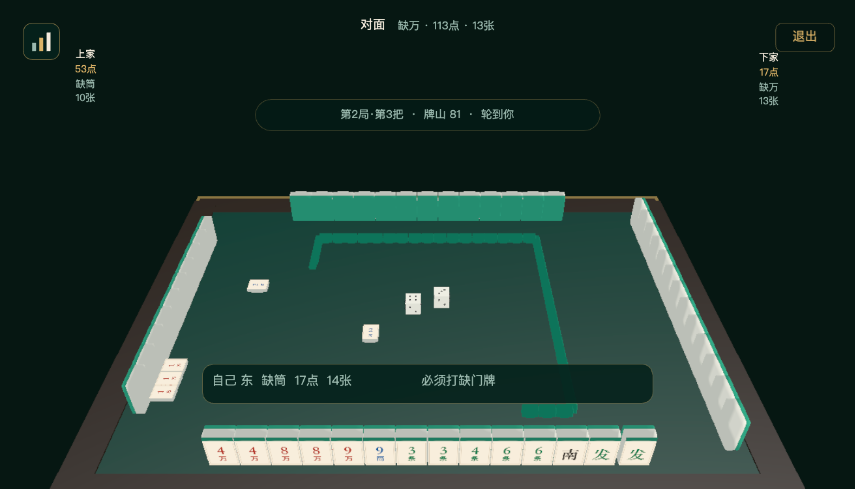
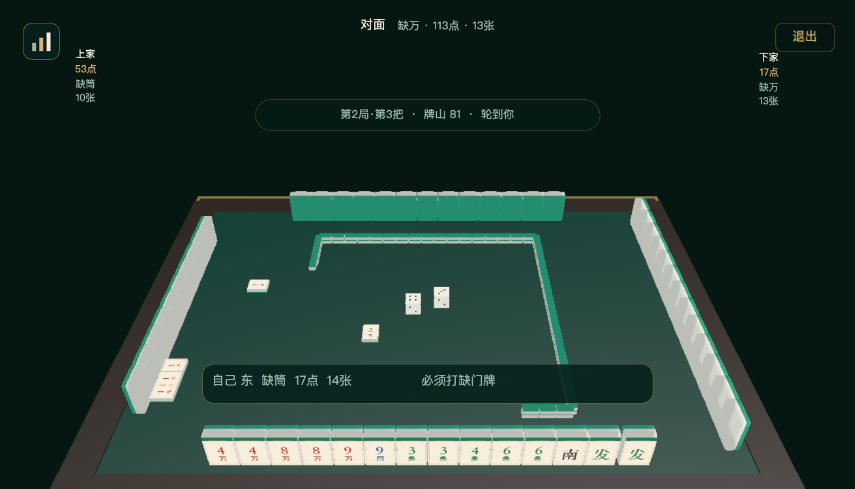
fix(layair): 全桌统一牌模型——背面30%绿 + 牌面70%白
上一轮只把站立牌（手牌）改成了双色，平躺牌和牌墙还是单色，不符合
「所有牌都是同一个模型」的要求。这次全部统一：

- addFlatTile（牌河 / 副露 / 打出的牌）：平躺、牌面朝上——
  底部 30% 厚度绿背贴桌面，上部 70% 象牙白白身，牌面贴图贴白身顶面；
  白身往绿背多咬 0.4 防接缝漏光，圆角从 3.6 收到 1.6
- addWall（牌墙）：每层墩拆成上 30% 绿（牌背朝上）+ 下 70% 白，
  两层叠起来绿白相间；不再整体一块绿，和桌面糊在一起
- 站立牌（手牌）沿用上一轮的两段结构，绿 #4CAF87 + 象牙白

现在手牌 / 牌墙 / 牌河 / 副露是同一个模型在不同朝向上的摆放。
README 更新口径；3D 牌桌截图更新。

Changed region(s): [[0.3649, 0.4601, 0.669, 0.7669], [0.6082, 0.8282, 0.6994, 0.8589]]

diff --git a/layair/src/ui/Table3D.ts b/layair/src/ui/Table3D.ts
@@ -403,15 +403,34 @@ export class Table3D {
     }
   }
 
-  /** 平躺牌：弃牌、副露、最后打出的牌 */
+  /**
+   * 平躺牌：弃牌、副露、最后打出的牌。
+   * 和站立牌同一个模型——背面 30% 厚度绿 + 牌面 70% 象牙白，只是平躺、牌面朝上
+   *（绿背贴着桌面，从相机看不到，侧面能看到绿边）。
+   */
   private addFlatTile(tile: Tile, x: number, z: number, parent: Laya.Sprite3D, rotationY = 0): Laya.Sprite3D {
     const group = new Laya.Sprite3D()
     group.transform.position = new Laya.Vector3(x, 7, z)
     group.transform.rotationEuler = new Laya.Vector3(0, rotationY, 0)
     parent.addChild(group)
 
-    this.addRounded(FLAT_W, 11, FLAT_D, 3.6, this.bodyMaterial(COLORS.ivory), 0, 0, 0, group)
-    // 用竖牌面板绕 X 轴翻平，正面贴图自然朝上
+    const greenT = 11 * 0.3
+    const whiteT = 11 - greenT
+    // 绿背：贴桌面那 30%
+    this.addRounded(FLAT_W, greenT, FLAT_D, 1.6, this.bodyMaterial('#4CAF87'), 0, -11 / 2 + greenT / 2, 0, group)
+    // 白身：牌面 70%，往绿背多咬 0.4 防接缝漏光
+    this.addRounded(
+      FLAT_W,
+      whiteT + 0.4,
+      FLAT_D,
+      1.6,
+      this.bodyMaterial(COLORS.ivory),
+      0,
+      -11 / 2 + greenT + whiteT / 2 - 0.2,
+      0,
+      group
+    )
+    // 用竖牌面板绕 X 轴翻平，正面贴图自然朝上（贴在白身顶面）
     this.addRounded(
       FLAT_W - 1.5,
       FLAT_D - 1.5,
@@ -419,7 +438,7 @@ export class Table3D {
       0.8,
       this.faceMaterial(this.faceTexture(tile, true)),
       0,
-      6.4,
+      6.35,
       0,
       group,
       -90
@@ -427,8 +446,11 @@ export class Table3D {
     return group
   }
 
+  /** 牌墙：每张牌同样是「背面 30% 绿 + 牌面 70% 白」，平躺、牌背朝上，两层叠成一墩 */
   private addWall(visual: Array<Array<[boolean, boolean]>>) {
     const half = WALL_SIDE / 2
+    const greenH = WALL_H * 0.3
+    const whiteH = WALL_H - greenH
     for (let seat = 0; seat < 4; seat += 1) {
       const walls = visual[seat] ?? []
       for (let i = 0; i < STACKS; i += 1) {
@@ -439,11 +461,13 @@ export class Table3D {
           if (seat === 2 || seat === 0) {
             const x = -half + i * WALL_STEP + WALL_STEP / 2
             const z = seat === 2 ? -half : half
-            this.addRounded(WALL_LEN, WALL_H, WALL_THICK, 1.8, this.bodyMaterial('#35916D'), x, y, z, this.dynamicRoot)
+            this.addRounded(WALL_LEN, whiteH + 0.4, WALL_THICK, 1.2, this.bodyMaterial(COLORS.ivory), x, y - WALL_H / 2 + whiteH / 2 - 0.2, z, this.dynamicRoot)
+            this.addRounded(WALL_LEN, greenH, WALL_THICK, 1.2, this.bodyMaterial('#4CAF87'), x, y + WALL_H / 2 - greenH / 2, z, this.dynamicRoot)
           } else {
             const x = seat === 3 ? -half : half
             const z = -half + i * WALL_STEP + WALL_STEP / 2
-            this.addRounded(WALL_THICK, WALL_H, WALL_LEN, 1.8, this.bodyMaterial('#35916D'), x, y, z, this.dynamicRoot)
+            this.addRounded(WALL_THICK, whiteH + 0.4, WALL_LEN, 1.2, this.bodyMaterial(COLORS.ivory), x, y - WALL_H / 2 + whiteH / 2 - 0.2, z, this.dynamicRoot)
+            this.addRounded(WALL_THICK, greenH, WALL_LEN, 1.2, this.bodyMaterial('#4CAF87'), x, y + WALL_H / 2 - greenH / 2, z, this.dynamicRoot)
           }
         }
       }

diff --git a/layair/README.md b/layair/README.md
@@ -39,14 +39,16 @@
 - **更小的中央提示**：中间只保留一条窄状态条，不再用大面板挡住牌河；成 / 杠 / 碰 / 过按钮收进底部操作条。3D 结算卡贴右上/左上放，给对家亮出的牌面让出中央。
 - **骰子**：两颗 3D 骰子，滚动时大、落定后缩小；不再显示 2D 骰子。
 - **3D 牌面**：牌是带厚度的 3D 圆角长方体（12 条棱、8 个角都做圆弧），牌面文字由 Canvas 生成贴图；牌与牌之间只留极小间隙，不再每张牌套一圈黑边。本家牌面朝向相机，对家 / 左右家背面朝相机，亮牌时翻到正面。
-- **牌的物理结构**：站立牌由两段长方体拼成——靠背面 30% 厚度是玉绿（#4CAF87，比牌墙亮一档）、
-  其余 70% 是象牙白；牌面贴图贴在白身正面。整只绿牌会和深绿桌面糊在一起，白身让牌从桌面上跳出来。
-  平躺牌（牌河 / 副露）是象牙白牌身 + 牌面朝上。
+- **牌的物理结构（全桌同一模型）**：任何一张牌都是两段长方体——背面 30% 厚度玉绿（#4CAF87）、
+  其余 70% 象牙白，牌面贴图贴在白身正面。站立牌（手牌）绿背朝后、白身朝前；
+  平躺牌（牌河 / 副露 / 打出的牌）牌面朝上、绿背贴桌面；牌墙的牌平躺、牌背朝上，
+  所以每层墩是「上 30% 绿 + 下 70% 白」，两层叠起来绿白相间。整只绿牌会和深绿桌面糊在一起，
+  白身让牌从桌面上跳出来。
 - **整体提亮**：场景自带的环境光 (0.42,0.46,0.53) 偏暗，运行时改写为 (0.72,0.76,0.78)、
   平行光 intensity 1.35、材质 albedoIntensity 1.15；桌面同时压暗到 #0F3D31，牌墙 #35916D、
   牌背 #4CAF87、白身象牙，四层亮度递增，牌和桌面不再粘在一起。
 - **累计战绩 / 存档**：左上角图表图标打开累计战绩（每家成牌次数、成牌点数、大/小摸子、输赢金额）。右上角退出会询问「保留并退出 / 清空并退出」；保留会把当前牌局和战绩写入 LayaAir / 微信本地存储，下次进入从当前继续；清空等于重置。
-- **牌墙**：摸走哪一层就空哪一层；两层牌之间、相邻墩之间留细小间隙；只剩上层/只剩下层时只占半格高度，墙上会留下真实的缺口。
+- **牌墙**：摸走哪一层就空哪一层；两层牌之间、相邻墩之间留细小间隙；只剩上层/只剩下层时只占半格高度，墙上会留下真实的缺口。牌墙的牌与全桌同一模型（绿背 30% 朝上 + 白身 70%），不再是单色绿长方体。
 - **手牌**：四家手牌紧挨排列，牌体圆角、间隙极小，既有分隔又不会散开。
   四家离桌沿统一留一张牌厚（28，牌体中心 = 桌沿 - 28 - 14）；早先自家留 120、其它三家只留 4~22，
   近处的自己离桌边特别远，另外三家却卡在桌沿上。刚摸到的牌只往右让一点，底部仍和手牌齐平。
